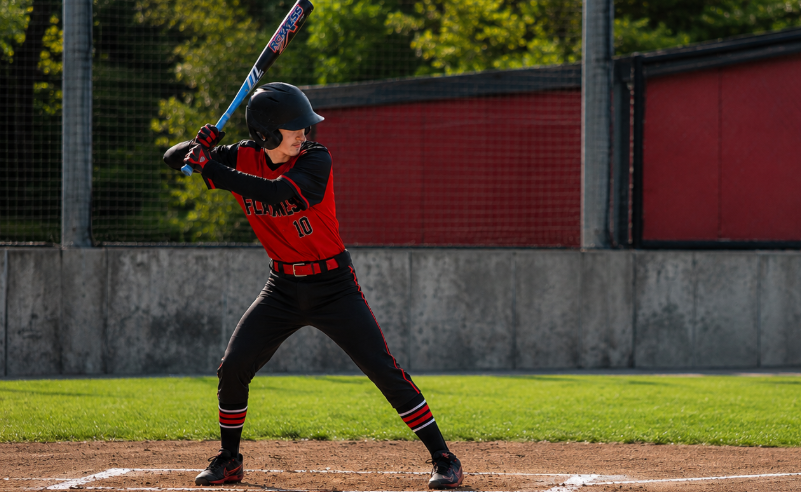
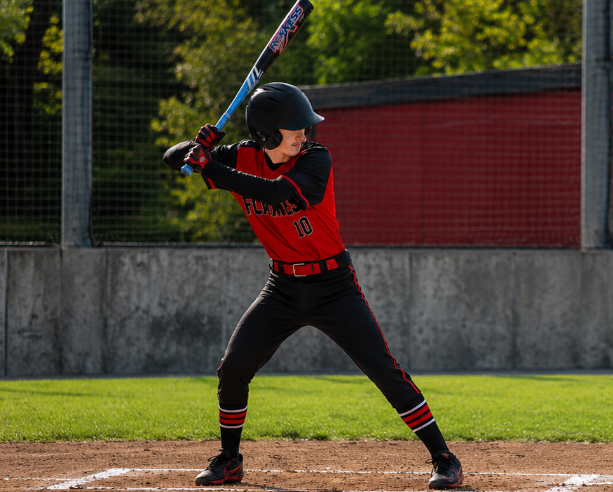
Add files via upload

diff --git a/script.js b/script.js
@@ -17,7 +17,7 @@ const catalog = [
   {title:"Paper Kingdom", year:2025, desc:"A brilliant strategist assembles an unlikely crew for an impossible heist.", category:"popular",c1:"#713f12",c2:"#292524"},
   {title:"The Company", year:2025, desc:"In the middle of nothing a company was created to save everyone.", category:"popular",c1:"#581c87",c2:"#172554"},
   {title:"Black Tide", year:2025, desc:"A salvage crew finds a signal beneath the ocean floor.", category:"popular",c1:"#082f49",c2:"#0f172a"},
-  {title:"The Avengers", year:2012, desc:"Earth's mightiest heros assemble to defeat the all powerfull Loki, of Asguard.", category:"popular",image:"the-avengers.png",c1:"#7f1d1d",c2:"#292524"},
+  {title:"The Avengers", year:2012, desc:"Earth's mightiest heros assemble to defeat the all powerfull Loki, of Asguard.", category:"popular",image:"the-avengers.png",rating:"PG-13",duration:"2h 26m",c1:"#7f1d1d",c2:"#292524"},
 
   {title:"The Stolen Card", year:2026, desc:"Three friends race to steal a card to copy it for their own good.", category:"new", c1:"#8d1019",c2:"#111827"},
   {title:"Static", year:2026, desc:"A radio host starts receiving broadcasts from tomorrow.", category:"new",c1:"#312e81",c2:"#111827"},
@@ -49,7 +49,7 @@ function escapeHtml(s){return s.replace(/[&<>"']/g,m=>({"&":"&amp;","<":"&lt;","
 function findTitle(title){return catalog.find(x=>x.title===title)}
 function metaHtml(item){
   const duration = item.duration ? `<span>${escapeHtml(item.duration)}</span>` : `<span>2 Seasons</span>`;
-  return `<span class="match">98% Match</span><span>${item.year}</span><span>TV-14</span>${duration}<span>HD</span>`;
+  return `<span class="match">98% Match</span><span>${item.year}</span><span>${escapeHtml(item.rating || "TV-14")}</span>${duration}<span>HD</span>`;
 }
 
 function renderRows(){
